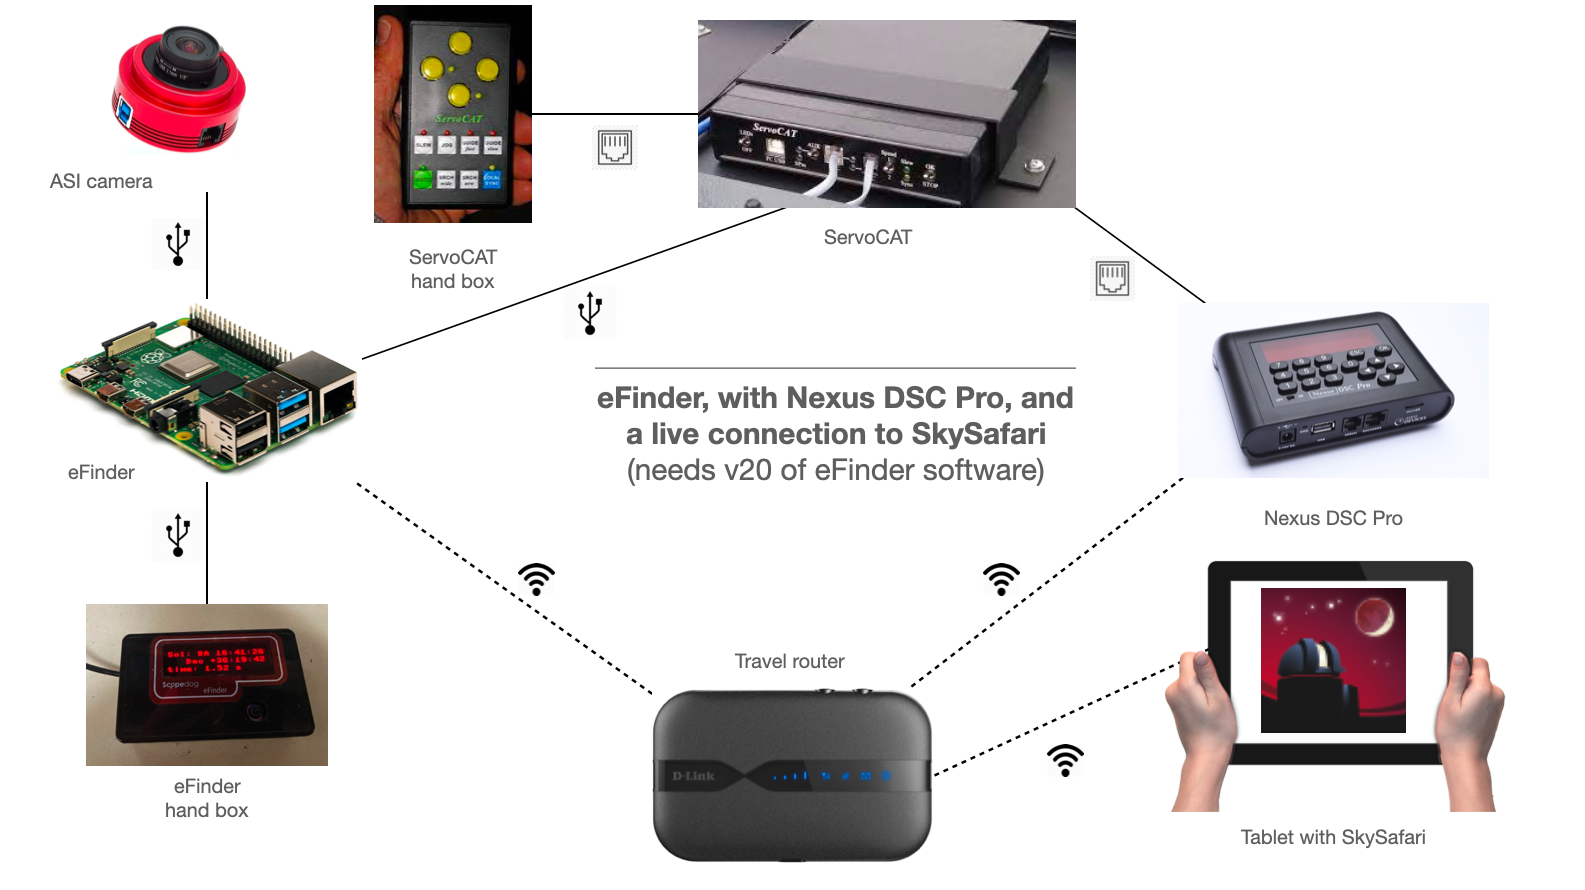
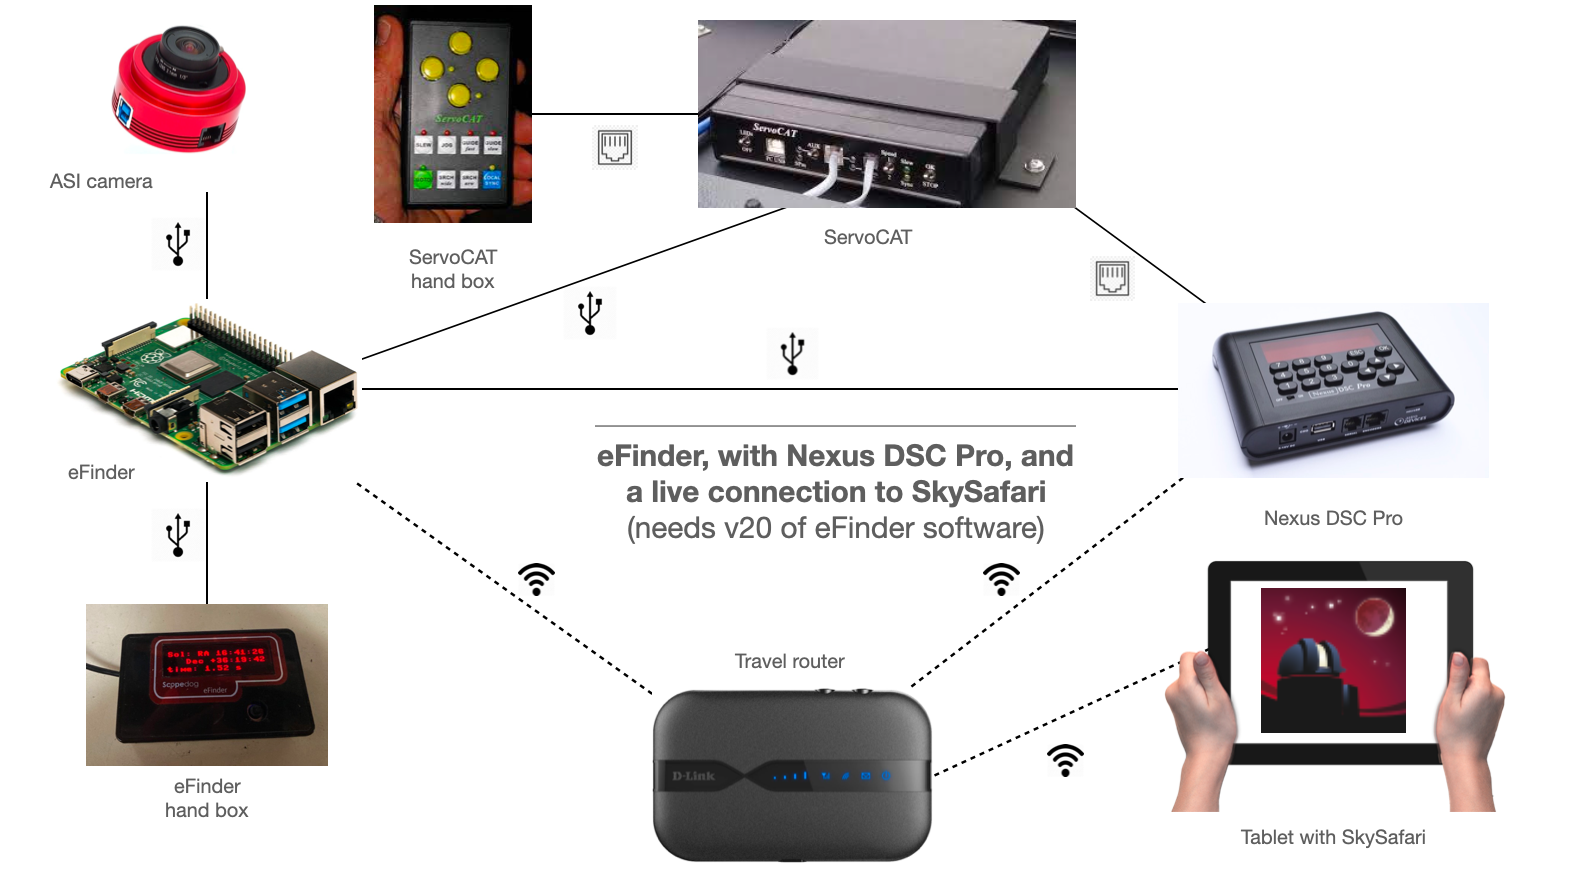
Documentation update

Changed region(s): [[0.371, 0.364, 0.6801, 0.6067]]

diff --git a/README.md b/README.md
@@ -6,8 +6,10 @@
     - [Purchase of the hardware](#purchase-of-the-hardware)
   - [eFinder hardware configurations](#efinder-hardware-configurations)
     - [Nexus DSC Pro, using SkySafari](#nexus-dsc-pro-using-skysafari)
-    - [Nexus DSC, using SkySafari if required](#nexus-dsc-using-skysafari-if-required)
+      - [Specific settings on the Nexus DSC Pro](#specific-settings-on-the-nexus-dsc-pro)
     - [Nexus DSC Pro, without using SkySafari](#nexus-dsc-pro-without-using-skysafari)
+    - [Nexus DSC, using SkySafari](#nexus-dsc-using-skysafari)
+    - [Nexus DSC, without using SkySafari](#nexus-dsc-without-using-skysafari)
   - [Nexus DSC Pro](#nexus-dsc-pro)
     - [Update of the Nexus DSC Pro firmware](#update-of-the-nexus-dsc-pro-firmware)
     - [Network settings on the Nexus DSC Pro](#network-settings-on-the-nexus-dsc-pro)
@@ -73,17 +75,46 @@ The best option for you will depend on your specific needs and preferences.
 
 ### Nexus DSC Pro, using SkySafari
 
-A travel router is required when using SkySafari on a tablet with the Nexus DSC Pro.
+A travel router is required when using SkySafari on a tablet with the Nexus DSC Pro.  This is the needed hardware configuration:
 
-![Using a Nexus DSC Pro, ServoCAT and SkySafari](doc/NexusDSCPro.png)
+- The ServoCAT is connected directly to the eFinder using USB.  
+- The ServoCAT is also connected to the Nexus DSC Pro using a serial cable.
+- The ASI camera and the eFinder hand box are connected directly to the eFinder using USB. 
+- The Nexus DSC Pro is connected to the eFinder using USB.  As the Nexus DSC Pro is a host, a ttl to USB adapter is needed (from [amazon.co.uk](https://www.amazon.co.uk/gp/product/B08ZS4PHNL) or [amazon.com.be](https://www.amazon.com.be/-/nl/4-pins-PL2303-kabelmodule-4-polige-PL2303HX/dp/B07LH6NJSZ)). This cable should be connected directly to the GPIO pins of the Raspberry PI, as described in the following table:
 
-### Nexus DSC, using SkySafari if required
+| Raspberry Pi GPIO Pin |                        | 
+|-----------------------|------------------------|
+| 6                     | USB to TTL lead, black | 
+| 8                     | USB to TTL lead, green | 
+| 10                    | USB to TTL lead, white | 
+| not used              | USB to TTL lead, red   | 
+
+
+#### Specific settings on the Nexus DSC Pro
+
+- Change the USB from ServoCat to LX200,9600,N,1
+- Change Wifi to connect to Travel Router
+- ADD settings for the WIFI connection (LX200?)
+
+![Using a Nexus DSC Pro, ServoCAT and SkySafari](doc/NexusDSCProSkySafari.png)
+
+###  Nexus DSC Pro, without using SkySafari
+
+If you want to connect your tablet to the eFinder (for the GUI) then for the Nexus DSC Pro, you need a travel router. For the non Pro, the Nexus can act as a router.
+
+![Using a Nexus DSC Pro, ServoCAT and no SkySafari](doc/NexusDscPro.png)
+
+### Nexus DSC, using SkySafari
 
 When using a Nexus DSC, a travel router is not required when using SkySafari on a tablet.
 
-![Using a Nexus DSC, ServoCAT and SkySafari]()
+![]()
 
-###  Nexus DSC Pro, without using SkySafari
+### Nexus DSC, without using SkySafari
+
+When using a Nexus DSC, a travel router is not required when using SkySafari on a tablet.
+
+![Using a Nexus DSC, ServoCAT and SkySafari](doc/NexusDsc.png)
 
 ## Nexus DSC Pro
 
